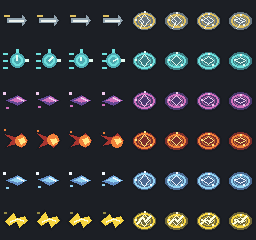
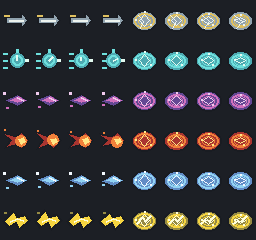
fix: enforce opaque pixels in production effects

diff --git a/tools/production_art/generate_hostile_effect_atlases.py b/tools/production_art/generate_hostile_effect_atlases.py
@@ -85,9 +85,11 @@ def pool(kind: str, phase: int) -> Image.Image:
     dark, mid, light = PALETTES[kind]
     inset = phase % 2
     draw.ellipse((3, 6, 29, 27), fill=INK)
-    draw.ellipse((5, 8, 27, 25), fill=dark[:3] + (170,))
+    # Pixel art uses binary alpha. Keep the pool's depth in the palette instead
+    # of introducing a translucent antialiased shadow.
+    draw.ellipse((5, 8, 27, 25), fill=dark)
     draw.ellipse((6 + inset, 9 + inset, 26 - inset, 24 - inset), outline=mid, width=2)
-    draw.ellipse((10, 12, 22, 21), outline=mid[:3] + (210,), width=1)
+    draw.ellipse((10, 12, 22, 21), outline=mid, width=1)
     draw.polygon([(16, 10 + phase), (21, 16), (16, 22 - phase), (11, 16)], outline=light)
     for x, y in ((7 + phase, 15), (22 - phase, 20), (16, 7 + phase)):
         draw.rectangle((x, y, x + 1, y + 1), fill=light)

diff --git a/tools/production_art/generate_room_atlases.py b/tools/production_art/generate_room_atlases.py
@@ -115,7 +115,9 @@ def landmark(kind: str) -> Image.Image:
     image = Image.new("RGBA", (64, 64))
     draw = ImageDraw.Draw(image)
     stone, shadow = (105, 124, 119), (56, 74, 78)
-    draw.ellipse((8, 49, 55, 58), fill=(18, 23, 25, 150))
+    # Keep the landmark shadow as an opaque palette step; partial alpha reads as
+    # a blur once the 64px atlas is scaled with nearest filtering.
+    draw.ellipse((8, 49, 55, 58), fill=INK)
     if kind in ("combat", "elite", "boss"):
         draw.polygon(((9, 45), (18, 39), (45, 39), (55, 45), (47, 56), (16, 56)), fill=INK)
         draw.polygon(((13, 45), (20, 42), (43, 42), (50, 45), (44, 52), (19, 52)), fill=stone)

diff --git a/tools/production_art/generate_forge_arena_atlases.py b/tools/production_art/generate_forge_arena_atlases.py
@@ -22,7 +22,8 @@ def frame(kind: str, phase: int) -> Image.Image:
     image = Image.new("RGBA", (48, 48))
     draw = ImageDraw.Draw(image)
     if kind == "anvil":
-        draw.ellipse((6, 29, 42, 43), fill=(19, 22, 27, 150))
+        # A hard-edged ground shadow keeps the atlas valid at nearest filtering.
+        draw.ellipse((6, 29, 42, 43), fill=INK)
         if phase == 2:
             draw.polygon(((9, 30), (20, 25), (25, 30), (36, 28), (41, 35), (32, 40), (12, 39)), fill=INK)
             draw.polygon(((12, 31), (18, 28), (22, 32), (18, 35)), fill=STEEL)
